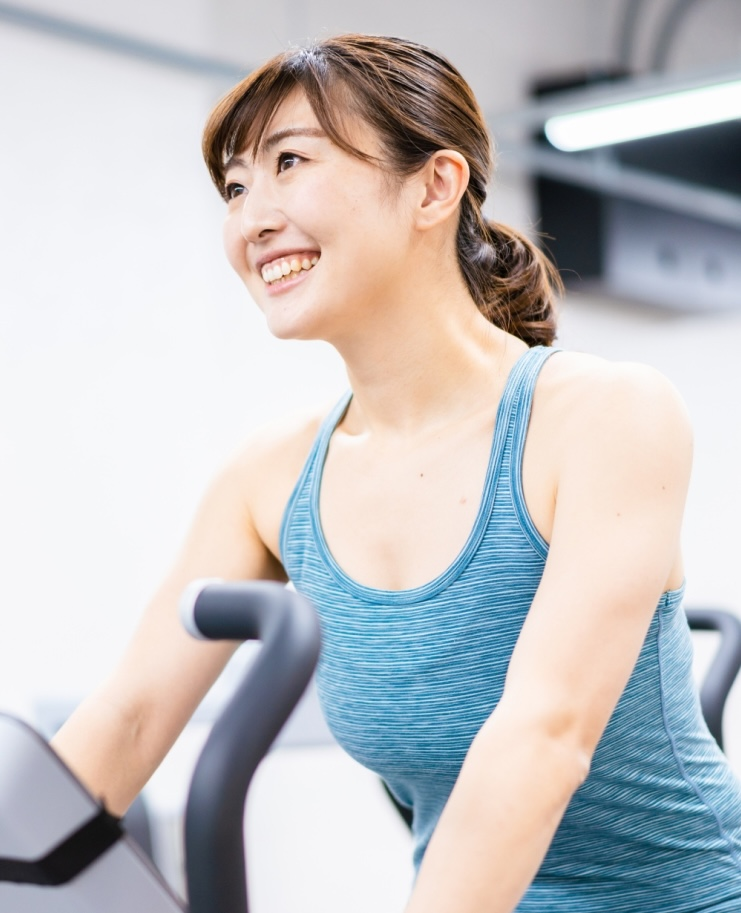
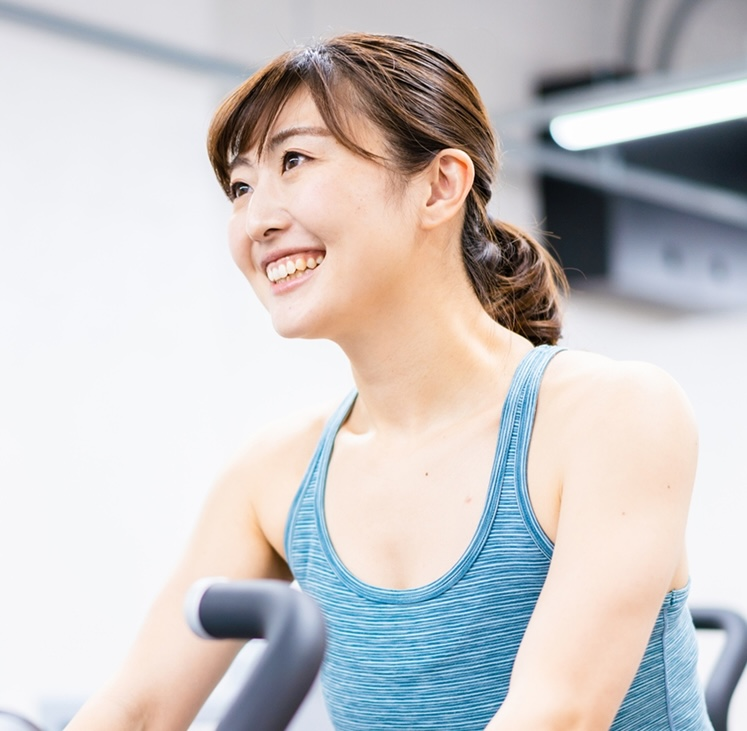
greeting修正

diff --git a/css/style.css b/css/style.css
@@ -23,21 +23,20 @@ body {
 }
 
 img {
-  max-width: 100%;
   width: 100%;
   height: auto;
-  box-sizing: border-box;
+  display: block;
 }
 
 section {
   scroll-margin-top: 5rem;
 }
 
-/* @media (max-width: 767px) {
+@media (max-width: 767px) {
   #greeting {
     scroll-margin-top: 5rem;
   }
-}スクロールするのに必要 */
+}
 
 li {
   list-style: none;
@@ -60,6 +59,13 @@ li {
   margin-bottom: 4.7rem;
 }
 
+.pc-only {
+  display: block;
+}
+
+.sp-only {
+  display: none;
+}
 @media (max-width: 767px) {
   .inner {
     max-width: 100%;
@@ -68,19 +74,14 @@ li {
   .section__ttl {
     margin-bottom: 4rem;
   }
-}
 
-.content-picture {
-  display: block;
-  width: 100%;
-  height: auto;
-}
+  .pc-only {
+    display: none;
+  }
 
-.content-picture img {
-  display: block;
-  width: 100%;
-  height: auto;
-  object-fit: cover;
+  .sp-only {
+    display: block;
+  }
 }
 
 /* ===========================
@@ -188,10 +189,10 @@ fv
   text-align: center;
   position: relative;
   flex-shrink: 0;
-  background-image: url(../img/logo_pc.svg);
+  background-image: url(../img/logo.svg);
   background-repeat: no-repeat;
-  background-position: right bottom 2.5rem;
-  background-size: 17.5vw;
+  background-position: right bottom;
+  background-size: 19vw;
 }
 
 .fv-content__box::after {
@@ -280,6 +281,7 @@ fv
  header fv　　　　　SP
    ========================*/
    @media (max-width: 1055px) {
+    
    .top-text {
 margin-top: 5rem;
    }
@@ -312,7 +314,6 @@ margin-top: 5rem;
 
   #fv {
     height: auto;
-    position: relative;
     flex-direction: column-reverse;
   }
 
@@ -323,20 +324,15 @@ margin-top: 5rem;
   .fv-content__box {
     font-size: 2rem;
     width: 100%;
-    height: 19rem;
-    position: absolute;
-    bottom: -9rem;
-    left: 0;
-    z-index: 10;
+    height: 18.5rem;
     background-image: url(../img/header-logo_sp.svg);
-    /* background-size: 37vw auto; */
     background-size: clamp(100px, 37vw, 140px);
     background-position: 100% 0;
   }
 
   .fv-content__box::after {
     border: 0.1rem solid #000;
-    top: 1.4rem;
+    top: 1rem;
     right: 1.2rem;
     left: 1.2rem;
     bottom: 1.5rem;
@@ -372,7 +368,6 @@ margin-top: 5rem;
   .bottom-text {
     position: relative;
     left: 0;
-    /* top: -2.6rem; */
     line-height: 1;
     margin: 0;
     margin-top: 1.7rem;
@@ -435,12 +430,15 @@ margin-top: 5rem;
   }
 
   .top-text {
-    top: -3.5rem;
+    margin-top: 0;
   }
-
+  .middle-text {
+    margin-top: 0.6rem;
+  }
   .bottom-text {
     left: 0;
-    top: -3.4rem;
+    padding-bottom: 0;
+    margin-top: 0.8rem;
   }
 
   .back-black {
@@ -471,34 +469,24 @@ greeting
   white-space: normal;
 }
 
-.greeting__line {
-  display: inline;
-}
-
 .greeting__text {
   text-align: center;
   line-height: 1.8;
 }
 
+.inline-block {
+  display:inline-block
+}
+
 .br-375,
-.br-350,
-.br-all,
-.br-tab-extra {
+.br-350 {
   display: none;
 }
 
 .nowrap {
-  white-space: nowrap;
+  white-space: normal;
 }
-@media (max-width: 1025px) {
-  .br-tab-extra {
-    display: inline;
-  }
 
-  .br-all {
-    display: inline;
-  }
-}
 @media (max-width: 1011px) {
   .greeting {
     padding: 4.3rem 0 5rem;
@@ -510,31 +498,21 @@ greeting
     display: inline;
   }
 
-  .br-tab-extra {
-    display: none;
-  }
-
-  .nowrap {
-    white-space: normal;
-  }
-
   .greeting {
-    padding: 3.7rem 0 5.1rem;
+    padding: 5rem 0 4.7rem;
     margin: 0;
   }
 
   .greeting__top {
     font-size: 2.3rem;
     line-height: 1.52;
-    margin-top: 5rem;
     margin-bottom: 1.9rem;
-    padding-top: 5rem;
     padding-right: 0;
   }
 
   .greeting__text {
     font-size: 1.6rem;
-    line-height: 1.9;
+    line-height: 1.87;
     text-align: left;
   }
 
@@ -545,19 +523,19 @@ greeting
   .section__ttl {
     margin-bottom: 4rem;
   }
+
+.inline-block {
+  display: inline;
 }
 
-@media (max-width: 761px) {
-  .br-tab-extra {
-    display: none;
+.pc-only {
+    display: inline-block;
   }
-}
 
-  @media (max-width: 530px) {
-    .br-tab-extra {
-      display: none;
-    }
-  }
+.sp-only {
+  display: inline-block;
+} 
+}
 
   @media (max-width: 350px) {
     .br-350 {
@@ -661,7 +639,7 @@ reason
 
   @media (max-width: 767px) {
     #reason {
-      padding: 5.4rem 0 5.4rem;
+      padding: 5.8rem 0 5.4rem;
       width: 100%;
     }
 
@@ -1416,7 +1394,7 @@ footer          sp
    =========================== */
   @media (max-width: 767px) {
     #footer {
-      padding: 3.7rem 0 4.8rem;
+      padding: 5.1rem 0 5rem;
     }
 
     #footer::after {
@@ -1429,7 +1407,7 @@ footer          sp
     }
 
     .footer__nav {
-      padding-bottom: 0.6rem;
+      /* padding-bottom: 0.6rem; */
       line-height: 1.83;
       font-size: 1.8rem;
       position: relative;
@@ -1442,6 +1420,7 @@ footer          sp
       column-gap: 1.4rem;
       justify-content: center;
       position: relative;
+      padding-bottom: 1.8rem;
       border: none;
       font-size: 1.8rem;
       line-height: 1.6;
@@ -1450,7 +1429,7 @@ footer          sp
 
     .copyright {
       font-size: 1.6rem;
-      margin: 1rem 0;
+      margin: 2.5rem 0 2rem;
     }
 
     .footer__nav-item a {

diff --git a/index.html b/index.html
@@ -71,11 +71,12 @@
     <section id="greeting" class="greeting inner">
       <h2 class="greeting__top">
         たった15分で、<br class="br-375">
-        体幹を変える、<br class="br-350">
-        未来を変える。
+        体幹を変える、<br class="br-350">未来を変える。
       </h2>
       <p class="greeting__text inner">
-        私たちコアジムは、1回あたり15分の効率重視のトレーニング方法で<br class="br-tab-extra">お客様をサポートいたします。<br class="br-all"><span class="nowrap">必要な部位だけを刺激することで、筋肉だけではなく脳やホルモンにアプローチするため、</span><br class="br-tab-extra">食事制限をせずとも、お客様の理想の体を目指せます。
+        私たちコアジムは、1回あたり15分の効率重視のトレーニング方法で<span class="inline-block">お客様をサポートいたします。</span>
+        <span class="inline-block pc-only">必要な部位だけを刺激することで、筋肉だけではなく脳やホルモンに<span class="nowrap">アプローチするため、</span></span>
+        <span class="inline-block">食事制限をせずとも、お客様の理想の体を目指せます。</span>
       </p>
     </section>
 
@@ -92,7 +93,7 @@
               </p>
             </div>
             <div class="reason__img">
-              <picture class="content-picture">
+              <picture>
                 <source media="(max-width:767px)" srcset="./img/about_01_sp.jpg" />
                 <img src="./img/about_01.jpg" alt="ランニングマシーンで走っている男女の後ろ姿" loading="lazy" />
               </picture>
@@ -107,7 +108,7 @@
               </p>
             </div>
             <div class="reason__img">
-              <picture class="content-picture">
+              <picture>
                 <source media="(max-width:767px)" srcset="./img/about_02_sp.jpg" />
                 <img src="./img/about_02.jpg" alt="ランニングシャツを着た筋肉質な男性が腕を組んでいる" loading="lazy" />
               </picture>
@@ -122,7 +123,7 @@
               </p>
             </div>
             <div class="reason__img">
-              <picture class="content-picture">
+              <picture>
                 <source media="(max-width:767px)" srcset="./img/about_03_sp.jpg" />
                 <img src="./img/about_03.jpg" alt="トレーナーと笑顔で会話する女性" loading="lazy" />
               </picture>
@@ -137,7 +138,7 @@
       <div class="menu__list inner">
         <div class="menu__item">
           <div class="menu__img">
-            <picture class="content-picture">
+            <picture>
               <source media="(max-width:768px)" srcset="./img/menu_01_sp.jpg" />
               <img src="./img/menu_01.jpg" alt="トレーニングをしている男性" loading="lazy" />
             </picture>
@@ -150,7 +151,7 @@
 
         <div class="menu__item">
           <div class="menu__img">
-            <picture class="content-picture">
+            <picture>
               <source media="(max-width:768px)" srcset="./img/menu_02_sp.jpg" />
               <img src="./img/menu_02.jpg" alt="トレーナーと運動している女性" loading="lazy" />
             </picture>
@@ -163,7 +164,7 @@
 
         <div class="menu__item">
           <div class="menu__img">
-            <picture class="content-picture">
+            <picture>
               <source media="(max-width:768px)" srcset="./img/menu_03_sp.jpg" />
               <img src="./img/menu_03.jpg" alt="プロテイン" loading="lazy" />
             </picture>
